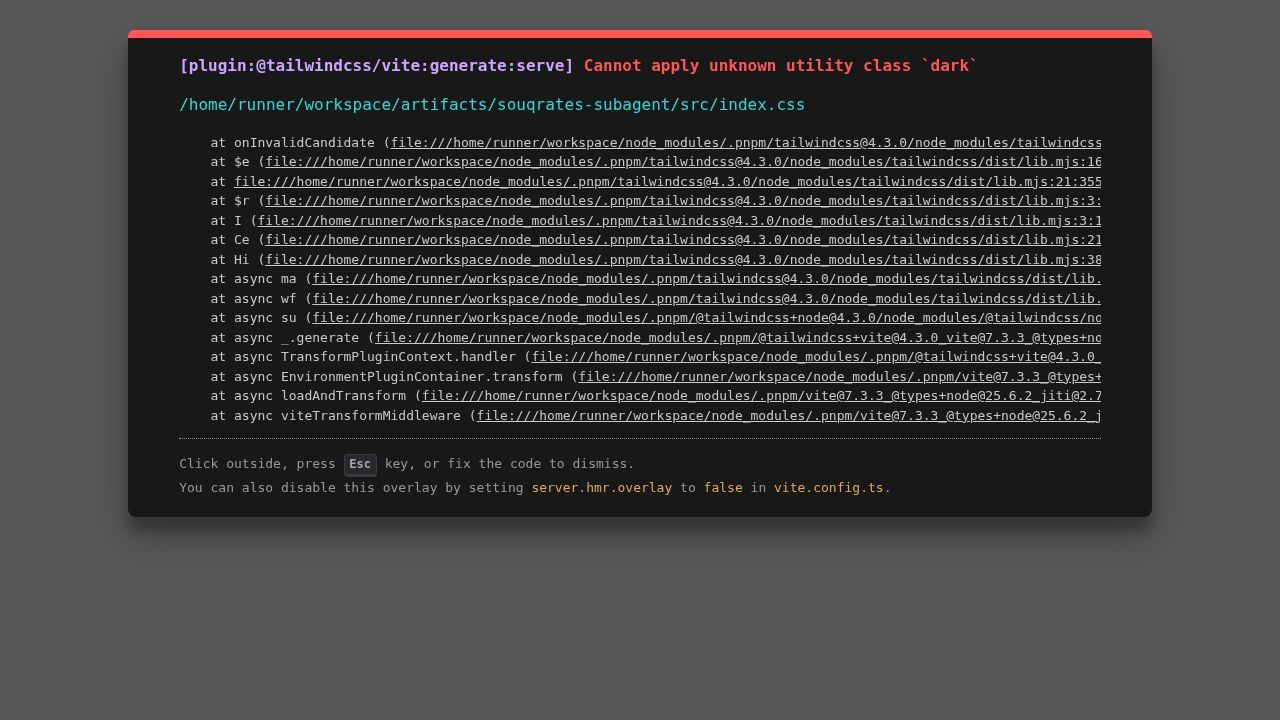
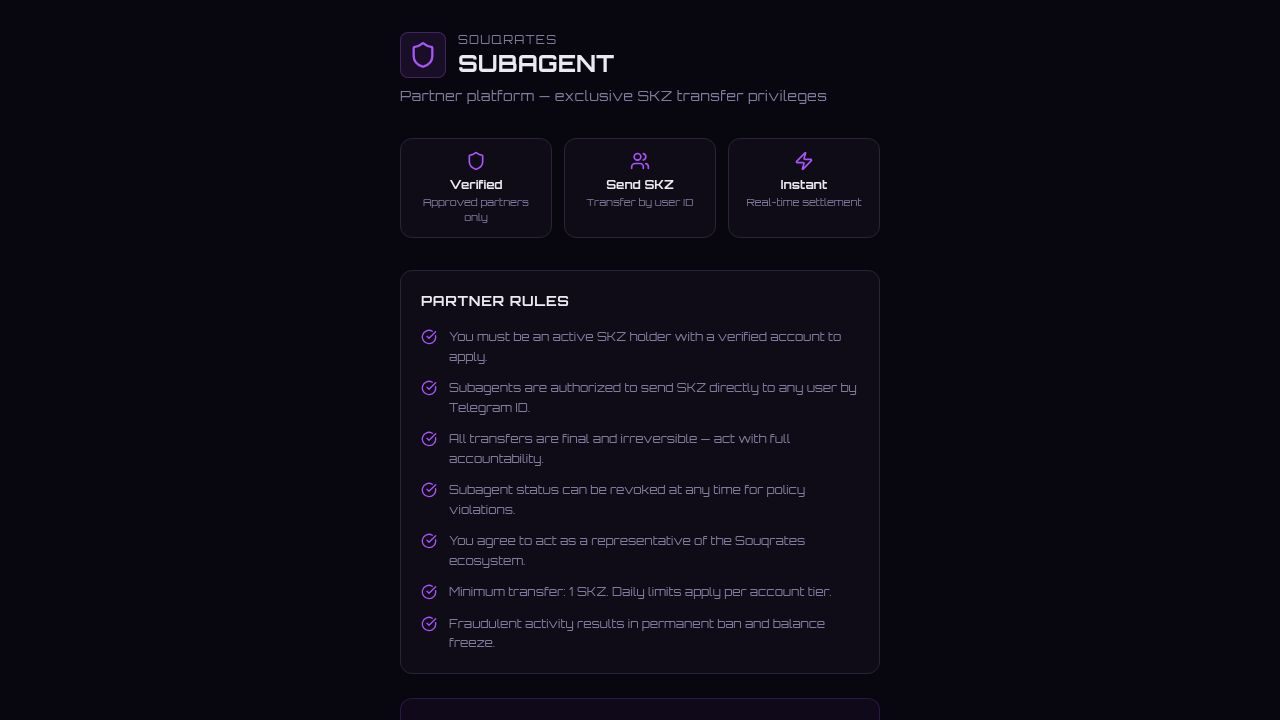
Configure bots to open within Telegram and set up commands
Adds a new `setupTelegramBots` function to configure both the Skillz and Souq bots. This function sets up the chat menu button to launch the respective web apps as Mini Apps directly within Telegram, and also configures the bot commands and descriptions for each bot. The setup function is called during the API server's startup sequence.

Replit-Commit-Author: Agent
Replit-Commit-Session-Id: ab08209a-97fa-479b-8cfe-c058dafc9f13
Replit-Commit-Checkpoint-Type: full_checkpoint
Replit-Commit-Event-Id: 10f7a0d0-7e05-4376-a89c-c10d779b4840
Replit-Commit-Screenshot-Url: https://storage.googleapis.com/screenshot-production-us-central1/aea52080-a7ad-4d84-ae44-cdb83fb0d638/ab08209a-97fa-479b-8cfe-c058dafc9f13/1IvmS2B
Replit-Helium-Checkpoint-Created: true

diff --git a/artifacts/api-server/src/lib/setupBots.ts b/artifacts/api-server/src/lib/setupBots.ts
@@ -1,0 +1,90 @@
+import { logger } from "./logger";
+
+interface TelegramResponse {
+  ok: boolean;
+  description?: string;
+}
+
+async function tgCall(token: string, method: string, body: object): Promise<TelegramResponse> {
+  const res = await fetch(`https://api.telegram.org/bot${token}/${method}`, {
+    method: "POST",
+    headers: { "Content-Type": "application/json" },
+    body: JSON.stringify(body),
+  });
+  return res.json() as Promise<TelegramResponse>;
+}
+
+async function configureBot(name: string, token: string, appUrl: string, buttonText: string, commands: Array<{ command: string; description: string }>) {
+  logger.info({ name }, "Configuring Telegram bot...");
+
+  const menuResult = await tgCall(token, "setChatMenuButton", {
+    menu_button: {
+      type: "web_app",
+      text: buttonText,
+      web_app: { url: appUrl },
+    },
+  });
+  if (!menuResult.ok) {
+    logger.error({ name, error: menuResult.description }, "Failed to set menu button");
+  } else {
+    logger.info({ name }, "Menu button set to Web App");
+  }
+
+  const cmdResult = await tgCall(token, "setMyCommands", { commands });
+  if (!cmdResult.ok) {
+    logger.error({ name, error: cmdResult.description }, "Failed to set commands");
+  } else {
+    logger.info({ name }, "Commands set");
+  }
+
+  const shortDescResult = await tgCall(token, "setMyShortDescription", {
+    short_description: buttonText,
+  });
+  if (!shortDescResult.ok) {
+    logger.warn({ name, error: shortDescResult.description }, "Failed to set short description");
+  }
+}
+
+export async function setupTelegramBots(): Promise<void> {
+  const skillzToken = process.env["SKILLZ_BOT_TOKEN"];
+  const souqToken = process.env["SOUQ_BOT_TOKEN"];
+
+  if (!skillzToken && !souqToken) {
+    logger.info("No bot tokens configured — skipping Telegram bot setup");
+    return;
+  }
+
+  try {
+    if (skillzToken) {
+      await configureBot(
+        "Skillz",
+        skillzToken,
+        "https://souqrates.com/skillz/",
+        "Play & Win SKZ",
+        [
+          { command: "start",  description: "Open Skillz Arena" },
+          { command: "games",  description: "Browse games" },
+          { command: "wallet", description: "My SKZ balance" },
+        ],
+      );
+    }
+
+    if (souqToken) {
+      await configureBot(
+        "Souq",
+        souqToken,
+        "https://souqrates.com/souq/",
+        "Open Souq",
+        [
+          { command: "start",    description: "Open Souq Marketplace" },
+          { command: "products", description: "Browse products" },
+          { command: "wallet",   description: "My SKZ balance" },
+        ],
+      );
+    }
+
+    logger.info("Telegram bots configured successfully");
+  } catch (err) {
+    logger.error({ err }, "Bot setup failed — continuing startup");
+  }
+}

diff --git a/artifacts/api-server/src/index.ts b/artifacts/api-server/src/index.ts
@@ -2,6 +2,7 @@ import app from "./app";
 import { logger } from "./lib/logger";
 import { seedBots } from "./lib/seed";
 import { seedGames } from "./lib/seedGames";
+import { setupTelegramBots } from "./lib/setupBots";
 
 const rawPort = process.env["PORT"];
 
@@ -17,7 +18,7 @@ if (Number.isNaN(port) || port <= 0) {
   throw new Error(`Invalid PORT value: "${rawPort}"`);
 }
 
-Promise.all([seedBots(), seedGames()]).then(() => {
+Promise.all([seedBots(), seedGames(), setupTelegramBots()]).then(() => {
   app.listen(port, (err) => {
     if (err) {
       logger.error({ err }, "Error listening on port");